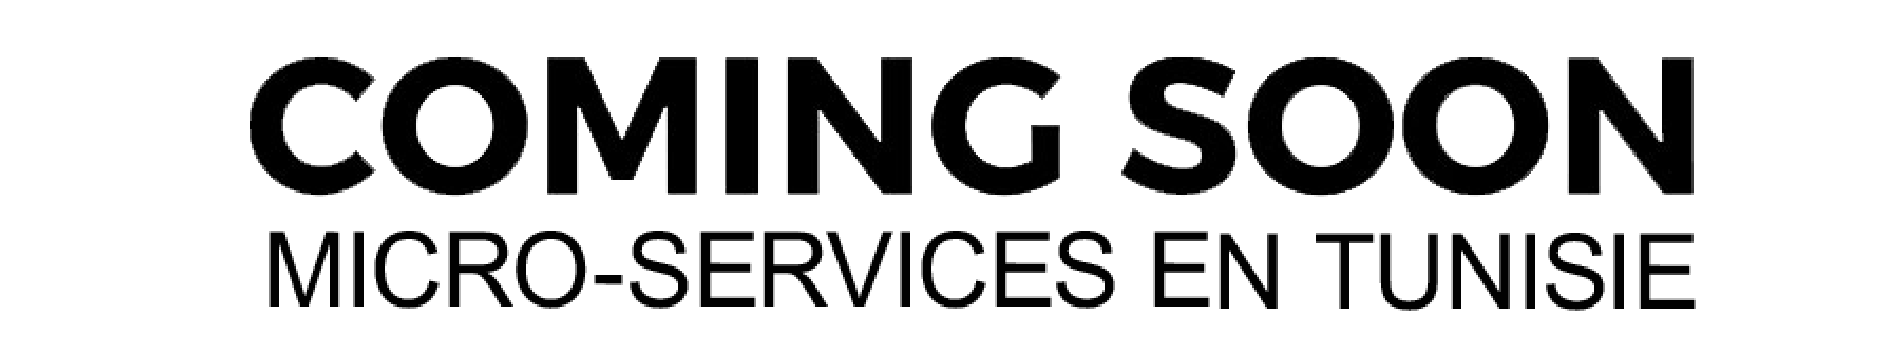
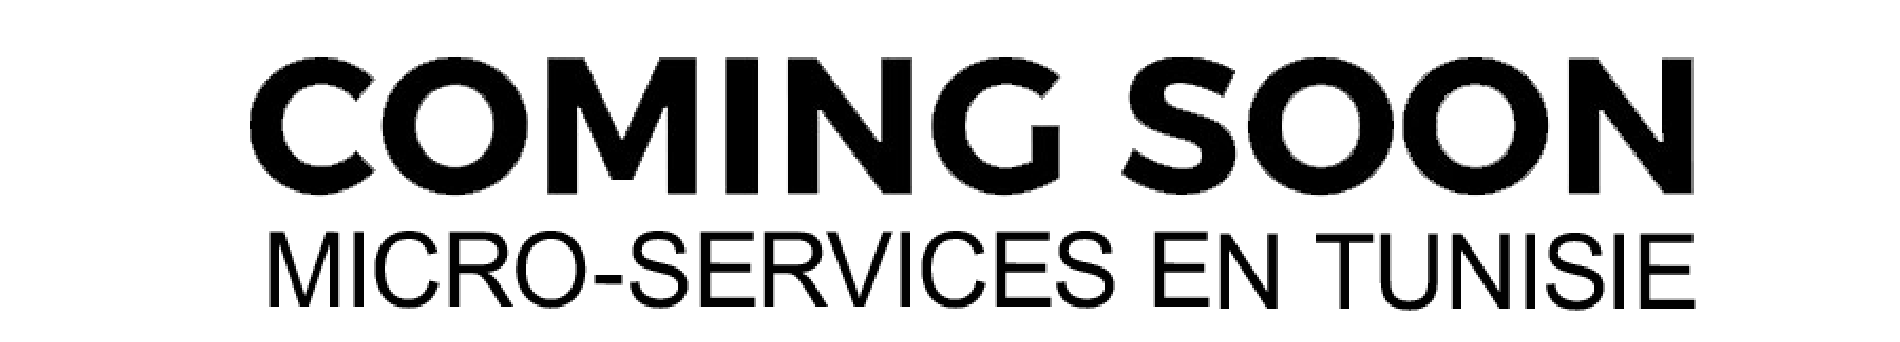
fix microservices -> micro-services +update .gitignore

diff --git a/resources/views/layouts/app1.blade.php b/resources/views/layouts/app1.blade.php
@@ -30,7 +30,7 @@
 <nav class="navbar navbar-light bg-light">
 {{--navbar navbar-expand-md navbar-light bg-white shadow-sm--}}
     <img src="{{asset('images/icon.png')}}"   alt="Italian Trulli">
-    <img src="{{asset('images/coming-soon.jpg')}}" alt="" style="width:200px;height: 30px;float: right!important;">
+    <img src="{{asset('images/coming-soon.png')}}" alt="" style="width:200px;height: 30px;float: right!important;">
 </nav>
 
 @yield('content')
